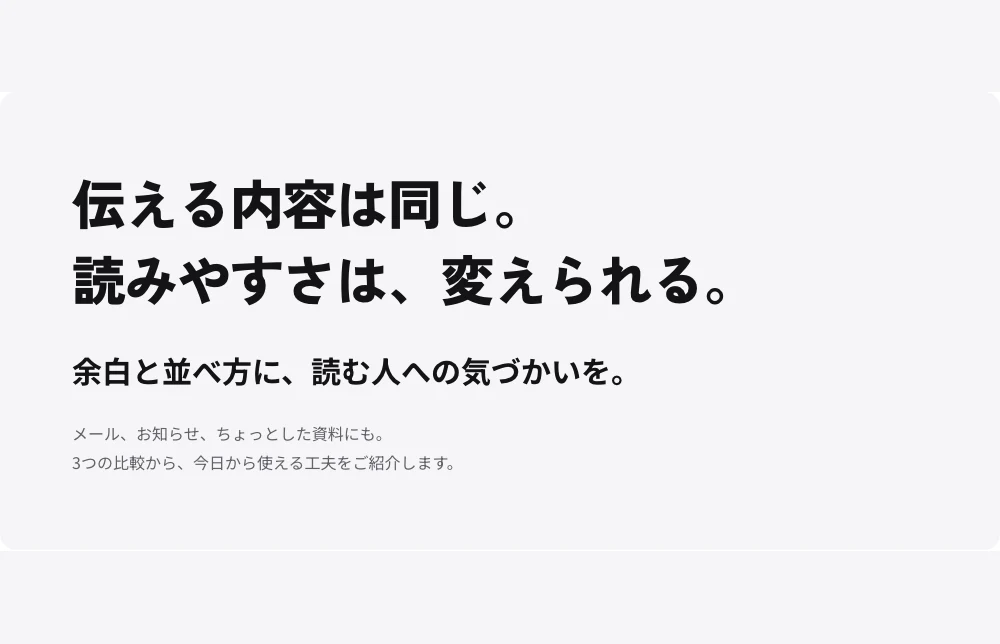
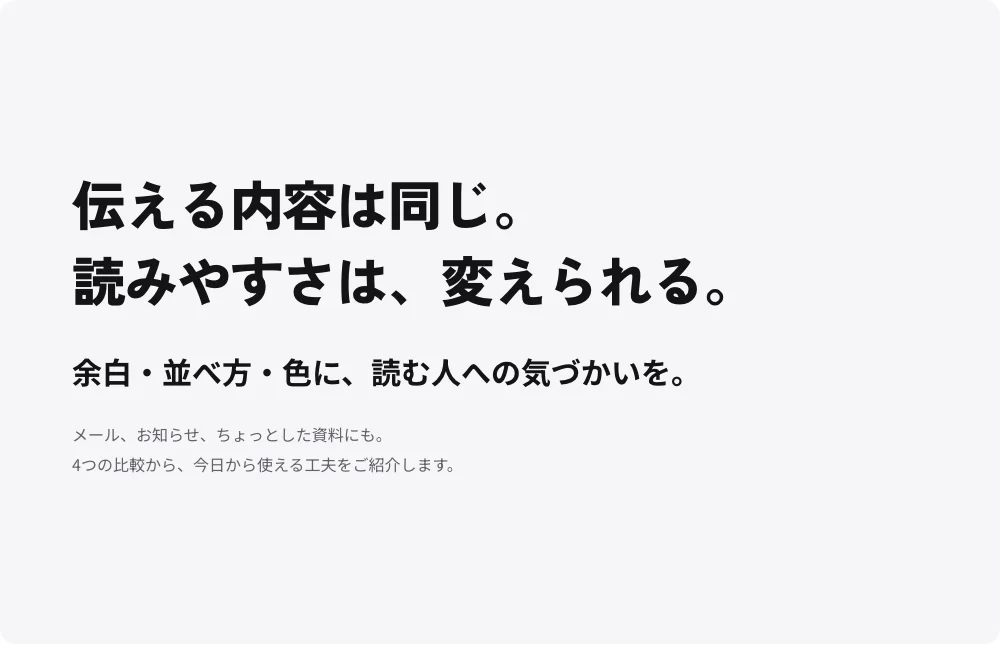
Add color roles and balance to website design learning quiz

diff --git a/src/data/services.ts b/src/data/services.ts
@@ -1,3 +1,4 @@
+// 変更履歴: 2026-11-09 ウェブ制作の配色問題追加に合わせ、紹介を四問へ更新。
 // 変更履歴: 2026-11-09 SMS・添付資料・アプリ連携の三種へ体験紹介を合わせる。
 // 変更履歴: 2026-11-09 日々の管理と不審な連絡への備えを接続し、体験をSMS・メールの3問として紹介。
 // 変更履歴: 2026-11-09 花屋の体験を作り手の考えを読むクイズ記事へ変更し、入口の紹介文を統一。
@@ -13,9 +14,9 @@ export const servicePages = [
     forWhom: 'ホームページがない、古くて自分では更新できない、スマホで見にくい。', priceShort: '¥110,000（税込・5ページまで）', name: 'ウェブサイト制作', title: '伝わる順番から、\nサイトをつくる。',
     preview: '会社やお店の魅力が伝わるサイトを。構成・デザインから、スマホ対応・公開まで。',
     lead: '小さな会社やお店の「何をしているか」を、初めての人にも。ページの構成、デザイン、スマホ対応、公開までを整えます。',
-    description: '企業・店舗サイトの制作とリニューアル。余白・段落・情報の整理を比べるクイズから、メールや案内資料にも使えるデザインの工夫を紹介します。',
+    description: '企業・店舗サイトの制作とリニューアル。余白・段落・情報の整理・配色を比べるクイズから、メールや案内資料にも使えるデザインの工夫を紹介します。',
     tasks: [['構成・原稿の整理', '誰に何を伝えるかを整理し、サービス・料金・問い合わせの順序を設計します。'], ['デザイン・実装', '事業に合う見た目と、スマホでも読みやすく操作できる画面をつくります。'], ['公開・引き継ぎ', 'タイトルや説明文を設定し、公開方法と更新手順をお渡しします。保守契約は任意です。']],
-    sampleTitle: '弊社が、デザインで大切にしていること。', sampleIntro: '余白、段落、情報のまとめ方。3つのクイズから、ウェブサイトにも日常の連絡にも使える工夫を紹介します。',
+    sampleTitle: '弊社が、デザインで大切にしていること。', sampleIntro: '余白、段落、情報のまとめ方、色の使い方。4つのクイズから、ウェブサイトにも日常の連絡にも使える工夫を紹介します。',
     tips: [['見た目の前に「次の一歩」を決める', '問い合わせ、予約、来店。訪問者にしてほしい行動を一つ決めると、必要な情報と順序を整理できます。ボタンだけを大きくするより、その手前で不安を解くことが大切です。'], ['SEOは、点数だけでは分からない', 'タイトル・見出し・説明文を分かりやすく整えることが基本です。ツールの高得点は検索順位の保証ではありません。お客様が知りたい情報が載っているかも、一緒に確認します。'], ['公開後も、自分で選べる状態に', 'ドメインやサーバーの契約者、更新できる場所、バックアップの保存先。納品時に確認しておくと、担当が替わっても困りにくくなります。']],
     source: 'https://developers.google.com/search/docs/fundamentals/seo-starter-guide?hl=ja', sourceLabel: 'Google 検索セントラル：SEOスターターガイド', price: 'ウェブサイト制作 ¥110,000（税込）', priceNote: '基本5ページ。掲載料金の対象・追加オプションはトップの料金表で確認できます。',
   },

diff --git a/src/styles/website-demo.css b/src/styles/website-demo.css
@@ -78,3 +78,14 @@
   .design-essay__contents { flex-direction: column; gap: 0; }
 }
 @media (prefers-reduced-motion: reduce) { .design-option__choose { transition: none; } }
+
+/* 変更履歴: 2026-11-09 同じ案内を色だけ変えて比較する第四問。文字寸法・面積・配置はA/B共通。 */
+.design-option__example--color { background: #ffffff; border: 1px solid var(--mist); }
+.everyday-color { width: 100%; color: #202023; }
+.everyday-color .everyday-color__title { font-size: 26px; font-weight: 700; line-height: 1.5; }
+.everyday-color .everyday-color__description { margin-top: 20px; font-size: 15px; }
+.everyday-color .everyday-color__details { margin-top: 20px; font-size: 14px; }
+.everyday-color__action { display: block; margin-top: 28px; padding: 14px 12px; background: #bb1829; color: #ffffff; text-align: center; font-size: 15px; font-weight: 700; border-radius: 6px; }
+.design-option__example--a .everyday-color__title { color: #185c85; }
+.design-option__example--a .everyday-color__description { color: #6c377f; }
+.design-option__example--a .everyday-color__details { color: #14634c; }

diff --git a/docs/design/2026-11-09-design-essay.md b/docs/design/2026-11-09-design-essay.md
@@ -7,9 +7,9 @@
 ## 現行構成
 
 - Readを主目的とする。日常の連絡にも使える読みやすさを紹介する導入。
-- 現行の難易度は余白の問題を基準にする。3問は余白によるまとまり、話題ごとの段落、見返す案内の項目整理。初心者が日常に応用でき、説明を読むと一段深く理解できる内容にする。複雑な実装条件や賛否が分かれる案の選択は扱わない。
+- 現行の難易度は余白の問題を基準にする。4問は余白によるまとまり、話題ごとの段落、見返す案内の項目整理、色の役割。初心者が日常に応用でき、説明を読むと一段深く理解できる内容にする。複雑な実装条件や賛否が分かれる案の選択は扱わない。
 - 回答を押すと同じ問題の解説が開く。読み上げで選択を通知し、回答は変更可能。
-- 同じ内容をA/Bで比較し、変える要素を絞る。「この例では私は選ぶ」→理由→細かなコツ→日常で使うなら→私が制作で気をつけること。メールや案内文を題材にし、開催情報は架空と明記。
+- 同じ内容をA/Bで比較し、変える要素を絞る。「この例では弊社は選ぶ」→理由→細かなコツ→日常で使うなら→弊社が制作で確認すること。メールや案内文を題材にし、開催情報は架空と明記。
 - 正誤スコア、ランキング、計測、永続化、送信なし。ネイティブdetailsでJSなしでも読める。
 - 白#FFFFFF / 墨#141416 / 補助#62626A / 淡面#F5F5F7 / 赤#DF2033・濃赤#BB1829。既存書体。左揃え、比較1000px、本文720px。600px以下は比較図を縦に。
 
@@ -29,3 +29,26 @@
 
 - 2026-11-09: 「初心者向けで技術力が低く見えそう」という指摘に対応し、初歩的な文字・余白・ボタン文言の問題を3つの設計ケースへ差し替え。W3Cの表・意味のある順序・入力検証、GOV.UKの条件付き質問を現行資料で確認。公開フォームそのものの機能は変更しない。
 - 2026-11-09: 以前の花屋の設計記録を過去案とし、ユーザー指定の体験記事を現行仕様として記録。
+
+
+## 配色の追加（2026-11-09）
+
+- ユーザーの指定に基づき、既存3問を残して第四問を追加。色数、配色のバランス、イメージについて一つの記事内で説明。
+- 同じ相談会の案内の文言・文字寸法・配置を揃え、配色だけを比較。「申し込みを優先して目立たせる」という目的を提示し、Bを選ぶ理由を説明する。Aは青・紫・緑・赤、Bは墨色＋赤い差し色。どちらも白い背景、十分な文字コントラスト。
+- 背景・文字・差し色の役割、鮮やかな色を使う面積、目指す印象と写真・書体との組み合わせを紹介。「必ず3色」「必ず特定比率」「この色なら誰でも同じ印象」とは断定しない。
+- コラムの語り口は弊社。申込表示は操作しない見本で、架空の案内と明記済み。選択操作・details・非保存の仕様を継承。
+- 入口・目次・結び・見直し項目・プレビュー画像を4問に同期。
+
+### 根拠
+
+2026-11-09確認。クイズ・本文・図は独自制作。
+- デジタル庁 https://design.digital.go.jp/dads/foundations/color/ ：カラーを役割・ブランド・一貫した優先順位に用いる指針。
+- W3C https://www.w3.org/WAI/WCAG22/Understanding/use-of-color.html ：色だけで情報を伝えない。
+- W3C https://www.w3.org/WAI/WCAG22/Understanding/contrast-minimum.html ：文字と背景のコントラスト。
+
+### 検証・変更履歴
+
+- 2026-11-09: `WebsiteDesignDemo.astro` / CSSに第四問を追加。`services.ts`・紹介画像・PRODUCT/DESIGNを同期。既存の回答処理は問題数に依存せず、変更不要。
+- 1440/768/375/320pxで四問の存在・A/Bの同一文言・選択変更・解説表示・キーボード操作・横はみ出しなしを確認。JavaScriptなしでも新解説を開ける。実行エラーなし。
+- 色見本の白背景との文字コントラストは青7.22、紫8.43、緑7.19、墨16.25、赤6.41。赤い申込見本の白文字も6.41で4.5以上。
+- Astro check36ファイル、エラー・警告0、静的10ページ生成。Impeccable detector指摘0。PC比較図とスマホ解説を視認。

diff --git a/DESIGN.md b/DESIGN.md
@@ -54,7 +54,7 @@
 2026-11-09最新：ECは受注管理画面を維持。セキュリティはSMS・添付PDF付きメール・アプリ連携の3問を一問ずつ表示。上部に前の問題と進捗、解説直下に次の問題と再挑戦を配置し、回答後の判定ボタンは隠す。iPhone風SMS、添付を開けるPCメール、権限の一覧を確認する連携画面と、短い判定欄の2列、640px以下は縦積み。回答前には説明を並べず、押した箇所に応じて同じ領域で解説する。リンクを開いた結果のみ淡い赤を使い、各解説に一度の表示演出（縮小モーション時は省略）。PHPは同じ書体・余白の独立記事。現行仕様は `docs/design/2026-11-09-phishing-experience.md`。
 4つのサービス詳細は既存の白黒赤と書体を継承し、事業説明→体験→豆知識→相談の順で配置する。体験はウェブの視線誘導、ECの商品選択とカート、AIの問い合わせ整理例、架空メールの確認ポイント。各ページに3本の短い記事と更新日を掲載する。サンプルと実績は区別し、実際のAI生成・決済・送信は行わない。AMOUNTの実画面は公開可能範囲を確認後に別途扱う。
 
-2026-11-09現在、トップは3/2/1件の手動横送りを維持。ウェブ制作の体験は架空店舗を撤去した3問のクイズ付き記事。余白の問題程度の難易度に揃え、余白・段落・情報の整理を日常へ応用できる内容にする。賛否が分かれやすい条件付きの判断や実装用語の解説は扱わない。Adobeの問いと解説、Learn UI Designの作り手の語り、「見比べる→理由を知る→日常で使う→作り手の工夫を読む」を組み合わせる。採点ゲームにはしない。白黒赤・共通書体を継承し、比較図は1000px、文章は720px以内。スマホでは比較図を縦に配置する。回答を選ばなくても解説を読める。現行仕様は`docs/design/2026-11-09-design-essay.md`を参照。
+2026-11-09現在、トップは3/2/1件の手動横送りを維持。ウェブ制作の体験は架空店舗を撤去した4問のクイズ付き記事。余白の問題程度の難易度に揃え、余白・段落・情報の整理・配色を日常へ応用できる内容にする。賛否が分かれやすい条件付きの判断や実装用語の解説は扱わない。Adobeの問いと解説、Learn UI Designの作り手の語り、「見比べる→理由を知る→日常で使う→作り手の工夫を読む」を組み合わせる。採点ゲームにはしない。白黒赤・共通書体を継承し、比較図は1000px、文章は720px以内。スマホでは比較図を縦に配置する。回答を選ばなくても解説を読める。現行仕様は`docs/design/2026-11-09-design-essay.md`を参照。
 
 ## 過去案
 
@@ -102,3 +102,5 @@
 - 2026-11-09変更履歴: 解説と次問操作の距離を短くし、回答前後のボタンを切り替える導線へ修正。
 
 - 2026-11-09変更履歴: 異なる手口を観察できるよう添付プレビューと連携権限の画面を追加。新しい世界観には変えず、標準detailsと既存の操作・色・文字を継承。
+
+- 2026-11-09変更履歴: 配色を考える第四問を追加。文言・文字サイズ・配置を揃え、Aは4つの有彩色、Bは墨色と赤い差し色を使う比較にする。文字の読みにくさでAを不利にしない。

diff --git a/CHANGELOG.md b/CHANGELOG.md
@@ -1,5 +1,11 @@
 # 変更履歴
 
+## 2026-11-09：ウェブ制作に配色の第四問を追加
+
+- `WebsiteDesignDemo.astro` / `website-demo.css`: 色数・役割・面積・印象を考える比較を追加。同じ案内を色だけ変えて比べ、日常での使い方と弊社の確認項目を解説。目次と結びも同期。
+- `services.ts` / `index.astro` / `websites.webp` / `PROVENANCE.md`: 4問に増えた内容と紹介文・画像を一致させる。
+- `PRODUCT.md` / `DESIGN.md` / 設計記録: 配色の目的・一次資料・検証を記録。
+
 ## 2026-11-09：似た手口を、異なる判断材料の三問へ
 
 - `phishing-scenarios.ts`: 催促・誤字・金額の分かりやすい手がかりを減らし、URLの構造、添付PDFのQR、アプリ連携の権限へ変更。名称だけ変えた同種の問題にならないようにする。

diff --git a/public/images/services/PROVENANCE.md b/public/images/services/PROVENANCE.md
@@ -1,5 +1,7 @@
 # サービス紹介画像の取得元
 
+変更履歴: 2026-11-09 配色の第四問追加に合わせ、websites.webpの導入文を現行画面で再撮影。1000×644、自作HTML/CSS。画像用に導入ブロックの高さだけ644pxへ調整して撮影。
+
 変更履歴: 2026-11-09 三種類の手口へ改訂したため、security.pngを現行第一問（URLの構造）の初期画面で再撮影。自作HTML/CSS、1000×756。撮影時のみ共通ヘッダーと開発ツールを非表示。
 
 変更履歴: 2026-11-09 長文教材を一問体験に置き換えたため、security.pngをiPhone風SMS＋判断ボタンの初期表示で再撮影。900×680、自作HTML/CSS。
